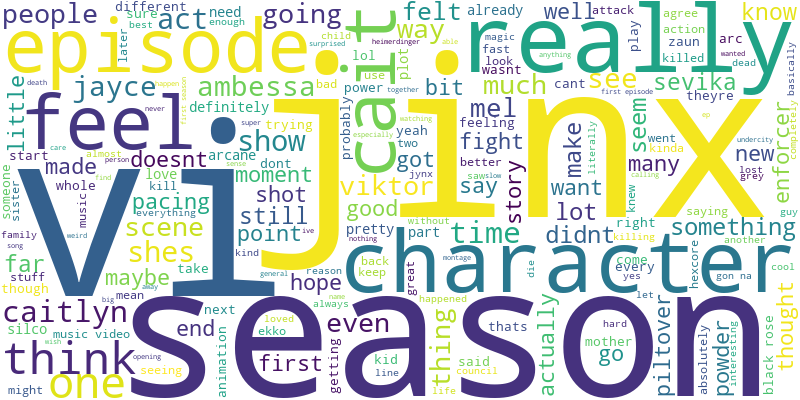
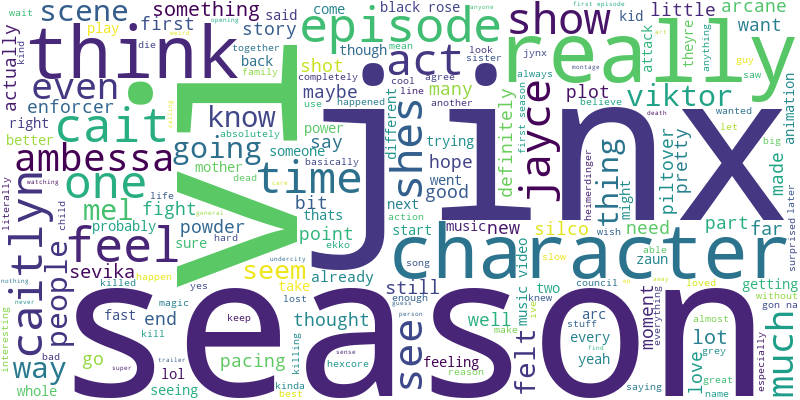
projekt

diff --git a/projectlast/bagow.py b/projectlast/bagow.py
@@ -19,7 +19,7 @@ def preprocess_text(text):
     tokens = word_tokenize(text.lower())
     
     # Define stop words
-    custom_stop_words = ['et', 'al', 'also', 'tmn', 'fig', 'b','im']
+    custom_stop_words = ['et', 'al', 'also', 'tmn', 'fig', 'b','im','didnt','doesnt','got','make','dont','cant','couldnt','wouldnt','shouldnt','isnt','arent','wasnt','werent','havent','hasnt','hadnt','wont']
     stop_words = set(stopwords.words('english'))
     stop_words.update(custom_stop_words)
     
